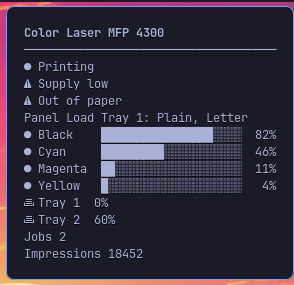
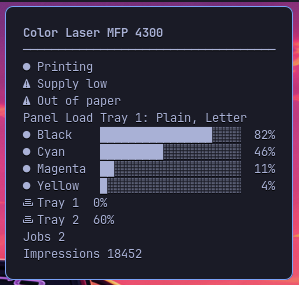
Retake every screenshot
The old ones predate the design pass and show what the widget no longer
does: the stepped bar colour, the pace arrow glued to the percentage,
"Sonnet only", the framed tooltip, and the rules stretched by the locale
bug. Keeping them would have documented a version that no longer exists.

They come from a real render, not from a composite: a headless sway with
its own Wayland socket, its own HOME and its own copy of the Omarchy
shell, the demo fixture on PATH, and a virtual-pointer client that holds
the hover open while grim fires — waybar's tooltip never appears
otherwise, because a compositor with no input devices answers "success"
to a cursor warp without generating one.

The desktop shots are native 1920x1080, no resampling: downscaling to
1440 softened the bar and panel text, which is the thing the image is
there to show. They use DIFFERENT wallpapers on purpose — the two shots
deliberately show the same data, and sharing the wallpaper too made them
read as one photo printed twice instead of as two frontends.

The bar carries the layout Omarchy ships, and the widget always sits in
the same place — right of the clock — so the fourteen images can be
compared without hunting for it.

Every `width=` is capped at the image's natural width. A width above it
stretches the capture and the text goes soft.

diff --git a/README.md b/README.md
@@ -110,12 +110,12 @@ Add the module to your Waybar configuration file. The name of the section is the
 Then add `"custom/printbar"` to a `modules-*` list. Start Waybar again.
 
 <p align="center">
-  <img src="screenshots/waybar-bar.png" alt="printbar in Waybar" width="72">
+  <img src="screenshots/waybar-bar.png" alt="printbar in Waybar" width="40">
 </p>
 
 <p align="center">
   <em>Move the pointer onto it to see the supplies, the trays and the queue:</em><br><br>
-  <img src="screenshots/waybar-tooltip.png" alt="The printbar tooltip: status, supplies, trays and queue" width="316">
+  <img src="screenshots/waybar-tooltip.png" alt="The printbar tooltip: status, supplies, trays and queue" width="299">
 </p>
 
 The full reference of the options is in [`config.example.toml`](config.example.toml).
@@ -226,7 +226,7 @@ Plain means no color markup on that surface. Nothing else changes. The printer g
 
 | Monochrome tooltip | Monochrome panel (`"colorMode": "none"`) |
 | :---: | :---: |
-| <img src="screenshots/waybar-tooltip-mono.png" alt="printbar's Waybar tooltip in monochrome" width="316"> | <img src="screenshots/omarchy-panel-mono.png" alt="printbar's Omarchy panel in monochrome" width="358"> |
+| <img src="screenshots/waybar-tooltip-mono.png" alt="printbar's Waybar tooltip in monochrome" width="299"> | <img src="screenshots/omarchy-panel-mono.png" alt="printbar's Omarchy panel in monochrome" width="358"> |
 
 printbar also obeys [`NO_COLOR`](https://no-color.org). A value that is not empty has the same effect as `--no-color=all`. An explicit flag on the command line always has more priority. For example, `--no-color=bar` keeps the tooltip colored with `NO_COLOR`, because the flag is the more specific instruction.
 
@@ -276,7 +276,7 @@ systemctl --user enable --now printbar-watch
 printbar also has a native plugin for the bar of the [Omarchy](https://omarchy.org) shell. It uses the same collector, but it renders a real widget and not a Pango tooltip.
 
 <p align="center">
-  <img src="screenshots/omarchy-bar.png" alt="printbar in the Omarchy shell bar" width="42">
+  <img src="screenshots/omarchy-bar.png" alt="printbar in the Omarchy shell bar" width="31">
 </p>
 
 <p align="center">
